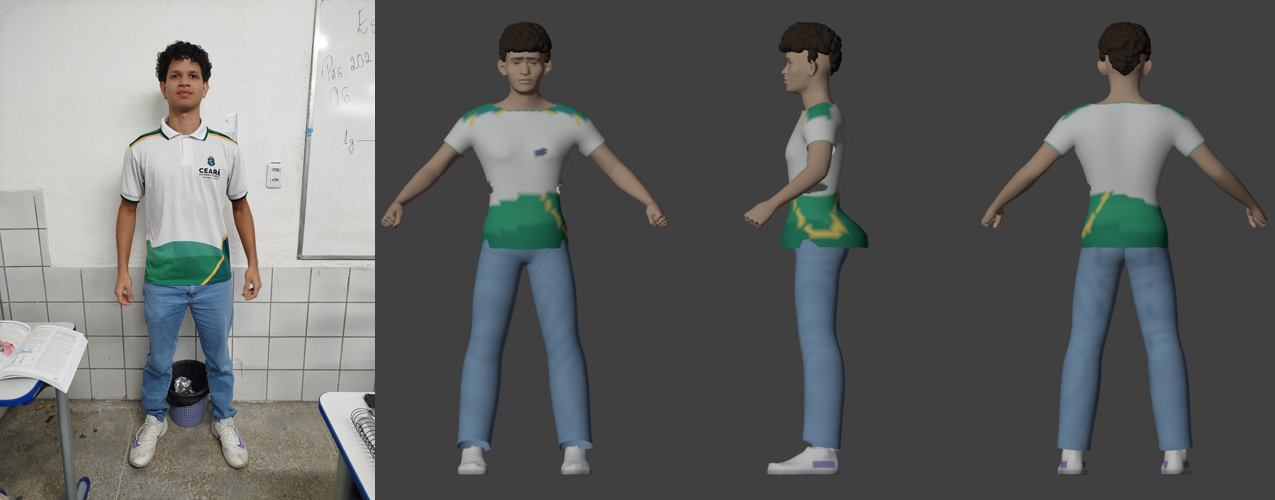
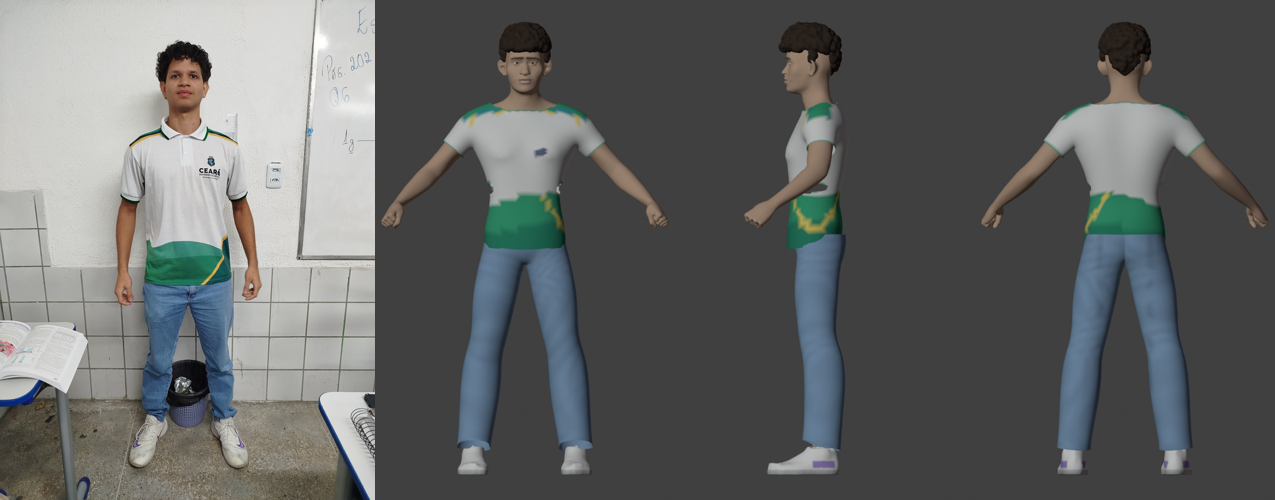
Miguel: olhos com iris e pupila, bumbum e quadril menores, camisa reta atras
Claude-Session: https://claude.ai/code/session_015xcccLS1wLAHGWNWcjbuqz

Changed region(s): [[0.6118, 0.42, 0.7035, 0.51], [0.8259, 0.45, 0.9176, 0.51]]

diff --git a/arte/miguel_humano.py b/arte/miguel_humano.py
@@ -34,7 +34,7 @@ FORMA = {
     "cheek/cheek-bones": 0.70, "cheek/cheek-volume": 0.45,
     "chin/chin-prominent": 0.15, "chin/chin-height": 0.20, "chin/chin-width": 0.15,
     # testa e sobrancelha pesadas (olho fundo, sobrancelha baixa)
-    "eyebrows/eyebrows-trans-down": 0.35, "eyebrows/eyebrows-trans-forward": 0.30,
+    "eyebrows/eyebrows-trans-down": 0.30, "eyebrows/eyebrows-trans-forward": 0.10,
     "forehead/forehead-trans-forward": 0.15,
     # orelhas grandes e de abano
     "ears/ear-scale": 0.50, "ears/ear-flap": 0.65, "ears/ear-wing": 0.80,
@@ -47,6 +47,8 @@ FORMA = {
     # corpo: ombros largos, cintura fina, pescoco longo
     "torso/torso-vshape": 0.45, "torso/measure-shoulder-dist": 0.35,
     "torso/measure-waist-circ": -0.30,
+    "buttocks/buttocks-volume": -0.80,  # magro: quadril e bumbum retos
+    "torso/measure-hips-circ": -0.40,
     "neck/measure-neck-circ": -0.05, "neck/measure-neck-height": 0.25,
 }
 LADOS = ("cheek", "ears", "arms")  # alvos com versao l-/r-
@@ -181,7 +183,7 @@ PELE = (0.62, 0.42, 0.30)       # pardo, tirado das fotos (corrigido da luz fria
 LABIO = (0.72, 0.45, 0.40)
 SOBRANCELHA = (0.10, 0.07, 0.05)
 ESCLERA = (0.86, 0.84, 0.80)
-IRIS = (0.10, 0.06, 0.04)
+IRIS = (0.12, 0.065, 0.04)
 
 
 def centro_grupo(me, faces_grupo, nome):
@@ -215,9 +217,11 @@ def pintar_corpo(ob, grupo_face, jt):
         if 0.007 < ax < 0.056:
             t = (ax - 0.007) / 0.049
             meio = oz + 0.016 + 0.0015 * t - 0.004 * max(0.0, t - 0.75) / 0.25
-            grossura = 0.0052 * (1.0 - 0.40 * t)
-            if abs(c.z - meio) < grossura and c.y < frente_rosto + 0.045:
-                cores[v.index, :3] = SOBRANCELHA
+            grossura = 0.0050 * (1.0 - 0.40 * t)
+            dist = abs(c.z - meio)
+            if dist < grossura * 1.6 and c.y < frente_rosto + 0.045:
+                f = 1.0 if dist < grossura else 1.0 - (dist - grossura) / (grossura * 0.6)
+                cores[v.index, :3] = np.array(PELE) * (1 - f) + np.array(SOBRANCELHA) * f
         # bigodinho ralo: acima do labio e descendo nos cantos da boca
         if ax < 0.027 and c.y < boca.y + 0.01:
             acima = boca.z + 0.009 < c.z < boca.z + 0.016
@@ -239,10 +243,16 @@ def pintar_corpo(ob, grupo_face, jt):
             if horiz < 0.014 and 0.0045 < d.z < 0.0072:
                 cores[v.index, :3] = SOBRANCELHA
     for vs, centro in ((vs_e, olho_e), (vs_d, olho_d)):
-        ys = [me.vertices[i].co.y for i in vs]
-        frente_y, raio = min(ys), (max(ys) - min(ys)) / 2
+        # olho: pupila e iris pelo angulo a partir da frente (-y); o resto e branco
         for i in vs:
-            cores[i, :3] = IRIS if me.vertices[i].co.y < frente_y + raio * 0.45 else ESCLERA
+            d = (me.vertices[i].co - centro).normalized()
+            ang = math.degrees(math.acos(max(-1.0, min(1.0, -d.y))))
+            if ang < 12:
+                cores[i, :3] = (0.02, 0.015, 0.012)
+            elif ang < 27:
+                cores[i, :3] = IRIS
+            else:
+                cores[i, :3] = ESCLERA
     return cores, boca
 
 
@@ -423,13 +433,16 @@ def fazer_camisa(ob, base_idx, dom, jt):
     # da cintura para baixo a camisa cai reta como um tubo por cima da calca
     zc = zq + 0.10
     faixa = [v.co for v in bm.verts if abs(v.co.z - zc) < 0.012]
-    ra = max(abs(c.x) for c in faixa) * 1.16
-    rb = max(abs(c.y) for c in faixa) * 1.22
+    ra = max(abs(c.x) for c in faixa) * 1.10
+    cy = (max(c.y for c in faixa) + min(c.y for c in faixa)) / 2
+    rf = (cy - min(c.y for c in faixa)) * 1.12  # frente
+    rt = (max(c.y for c in faixa) - cy) * 1.05  # costas (nao segue o bumbum)
     for v in bm.verts:
         if v.co.z < zc:
             t = min(1.0, (zc - v.co.z) / 0.08) ** 0.7
-            ang = math.atan2(v.co.y / rb, v.co.x / ra)
-            alvo = Vector((ra * math.cos(ang), rb * math.sin(ang), v.co.z))
+            ry = rt if v.co.y > cy else rf
+            ang = math.atan2((v.co.y - cy) / ry, v.co.x / ra)
+            alvo = Vector((ra * math.cos(ang), cy + ry * math.sin(ang), v.co.z))
             atual = Vector((v.co.x, v.co.y, v.co.z))
             v.co = atual.lerp(alvo, t)
     suavizar(bm, 2, 0.4, manter_borda=False)
